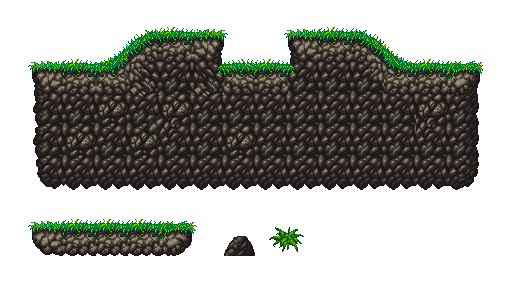
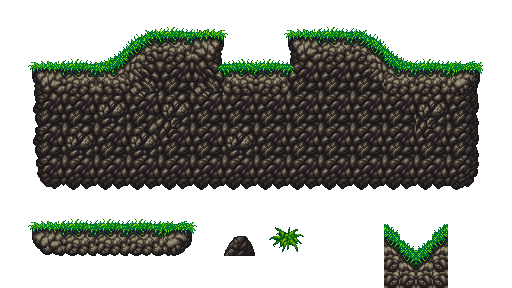
ramps, random fixes

Changed region(s): [[0.75, 0.7812, 0.875, 1.0]]

diff --git a/src/toritools/physics/Universe.java b/src/toritools/physics/Universe.java
@@ -2,7 +2,6 @@ package toritools.physics;
 
 import java.util.HashMap;
 
-import org.jbox2d.callbacks.ContactFilter;
 import org.jbox2d.callbacks.ContactListener;
 import org.jbox2d.collision.shapes.CircleShape;
 import org.jbox2d.collision.shapes.PolygonShape;
@@ -55,34 +54,28 @@ public class Universe {
         world.step(dt, 8, 15);
     }
 
-    /**
-     * Add an entity to the simulation. The entity will be given an additional
-     * script that keeps it synced with its simulation representation..
-     * 
-     * @param ent
-     *            the entity to add.
-     * @param bodyType
-     *            the Body type
-     * @param allowRotation
-     *            true if rotation should be allowed.
-     * @param density
-     *            default is 1, adjust accordingly.
-     */
     public Body addEntity(final Entity ent, final BodyType bodyType, final boolean allowRotation,
-            final boolean spherical, final float density, final float friction) {
+            final boolean spherical, final float density, final float friction, final Vector2[] points) {
         BodyDef bd = new BodyDef();
         bd.fixedRotation = !allowRotation;
         bd.type = bodyType;
-        bd.position.set(ent.getPos().x / PTM_RATIO + ent.getDim().x / 2 / PTM_RATIO,
-                ent.getPos().y / PTM_RATIO + ent.getDim().y / 2 / PTM_RATIO);
 
         Shape p = null;
-        if (!spherical) {
-            p = new PolygonShape();
-            ((PolygonShape) p).setAsBox(ent.getDim().x / PTM_RATIO / 2, ent.getDim().y / PTM_RATIO / 2);
+        if (points == null) {
+            bd.position.set(ent.getPos().x / PTM_RATIO + ent.getDim().x / 2 / PTM_RATIO, ent.getPos().y / PTM_RATIO
+                    + ent.getDim().y / 2 / PTM_RATIO);
+            if (!spherical) {
+                p = new PolygonShape();
+                ((PolygonShape) p).setAsBox(ent.getDim().x / PTM_RATIO / 2, ent.getDim().y / PTM_RATIO / 2);
+            } else {
+                p = new CircleShape();
+                p.m_radius = ent.getDim().x / PTM_RATIO / 2;
+            }
         } else {
-            p = new CircleShape();
-            p.m_radius = ent.getDim().x / PTM_RATIO / 2;
+            bd.position.set(ent.getPos().add(ent.getDim().scale(.5f)).scale(1f / PTM_RATIO).toVec());
+            PolygonShape ss = new PolygonShape();
+            ss.setAsEdge(points[0].scale(1f / PTM_RATIO).toVec(), points[1].scale(1f / PTM_RATIO).toVec());
+            p = ss;
         }
 
         // Create a fixture for ball
@@ -98,15 +91,30 @@ public class Universe {
         body.createFixture(fd);
         body.m_userData = ent;
 
-        world.setContactFilter(new ContactFilter() {
-        });
-
         bodyMap.put(ent, body);
 
         if (bodyType == BodyType.DYNAMIC)
             ent.addScript(serviceScript);
 
         return body;
+    }
+
+    /**
+     * Add an entity to the simulation. The entity will be given an additional
+     * script that keeps it synced with its simulation representation..
+     * 
+     * @param ent
+     *            the entity to add.
+     * @param bodyType
+     *            the Body type
+     * @param allowRotation
+     *            true if rotation should be allowed.
+     * @param density
+     *            default is 1, adjust accordingly.
+     */
+    public Body addEntity(final Entity ent, final BodyType bodyType, final boolean allowRotation,
+            final boolean spherical, final float density, final float friction) {
+        return addEntity(ent, bodyType, allowRotation, spherical, density, friction, null);
     }
 
     /**

diff --git a/src/snakemeleon/Snakemeleon.java b/src/snakemeleon/Snakemeleon.java
@@ -114,7 +114,7 @@ public class Snakemeleon extends Binary {
 
     @Override
     protected void globalLogic(Level level) {
-        
+
         if (ScriptUtils.getKeyHolder().isPressed(KeyEvent.VK_ESCAPE)) {
             System.exit(0);
         }
@@ -160,6 +160,16 @@ public class Snakemeleon extends Binary {
 
         for (Entity e : levelBeingLoaded.getEntitiesWithType(ReservedTypes.WALL)) {
             uni.addEntity(e, BodyType.STATIC, false, false, 1f, .3f);
+        }
+
+        for (Entity e : levelBeingLoaded.getEntitiesWithType("RIGHT_DIAG_WALL")) {
+            uni.addEntity(e, BodyType.STATIC, false, false, 1f, .3f,
+                    new Vector2[] { (e.getDim().scale(.5f, -.5f)), (e.getDim().scale(-.5f, .5f)) });
+        }
+
+        for (Entity e : levelBeingLoaded.getEntitiesWithType("LEFT_DIAG_WALL")) {
+            uni.addEntity(e, BodyType.STATIC, false, false, 1f, .3f,
+                    new Vector2[] { (e.getDim().scale(-.5f, -.5f)), (e.getDim().scale(.5f, .5f)) });
         }
 
         for (Entity e : levelBeingLoaded.getEntitiesWithType(SnakemeleonConstants.dynamicPropType)) {

diff --git a/src/toritools/math/Vector2.java b/src/toritools/math/Vector2.java
@@ -25,7 +25,7 @@ public class Vector2 {
         this.x = x;
         this.y = y;
     }
-    
+
     public Vector2(final Dimension dim) {
         this.x = dim.width;
         this.y = dim.height;
@@ -76,7 +76,7 @@ public class Vector2 {
     public Vector2 sub(final float o) {
         return new Vector2(this.x - o, this.y - o);
     }
-    
+
     public Vector2 sub(final float x, final float y) {
         return new Vector2(this.x - x, this.y - y);
     }
@@ -97,8 +97,13 @@ public class Vector2 {
         return this.x * o.getX() + this.y * o.getY();
     }
 
+    private float magCache = -1;
+
     public float mag() {
-        return (float) Math.sqrt(x * x + y * y);
+        if (magCache == -1) {
+            magCache = (float) Math.sqrt(x * x + y * y);
+        }
+        return magCache;
     }
 
     public Vector2 unit() {
